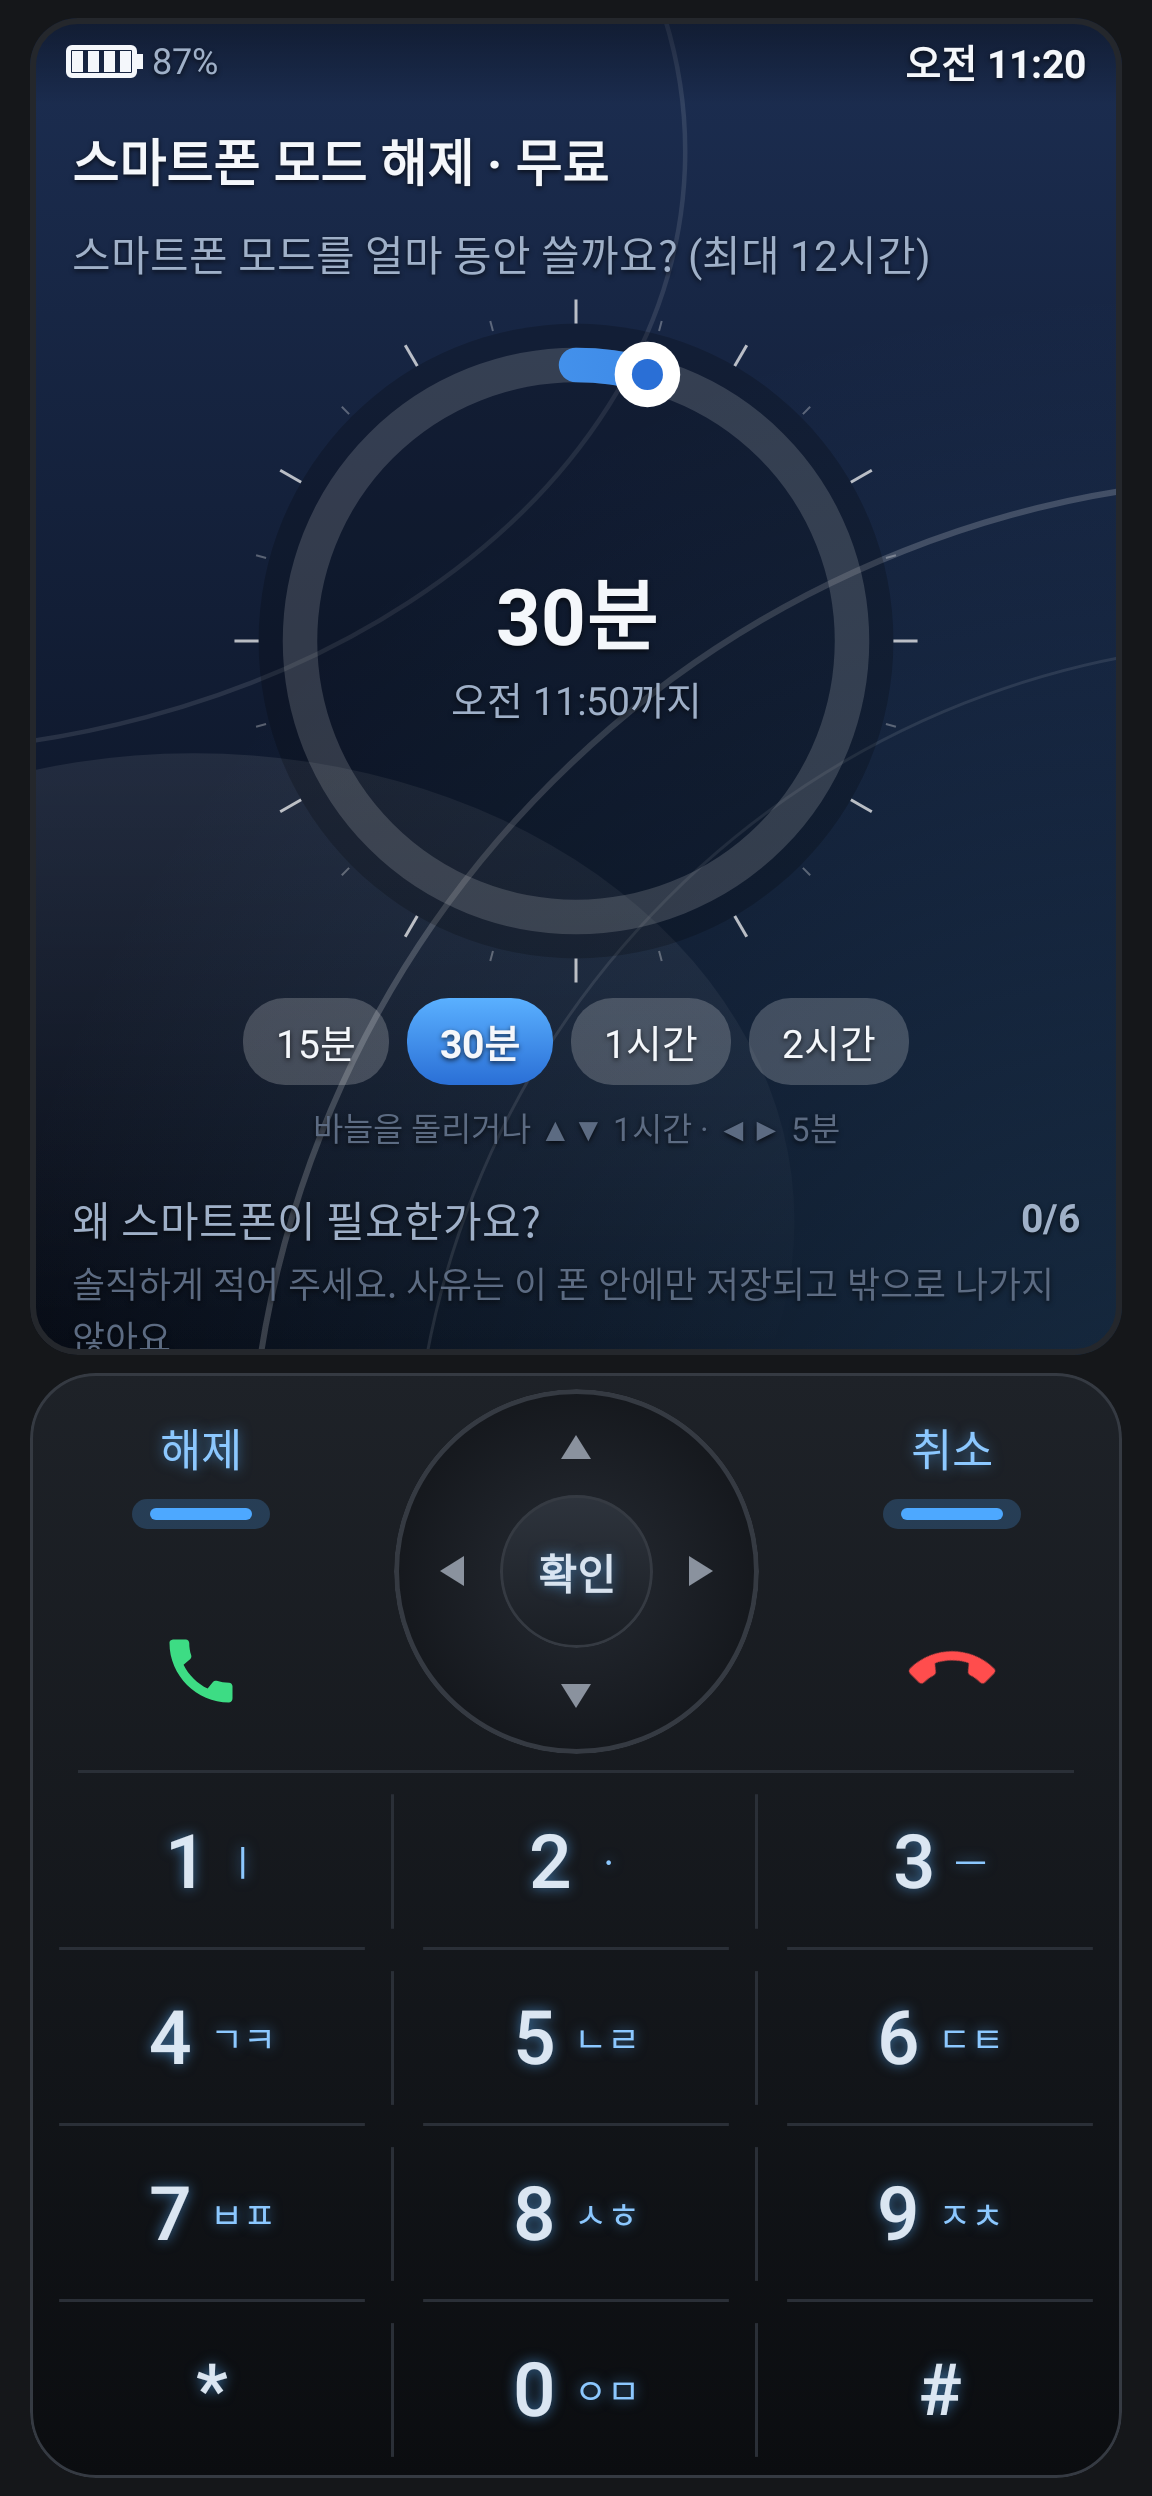
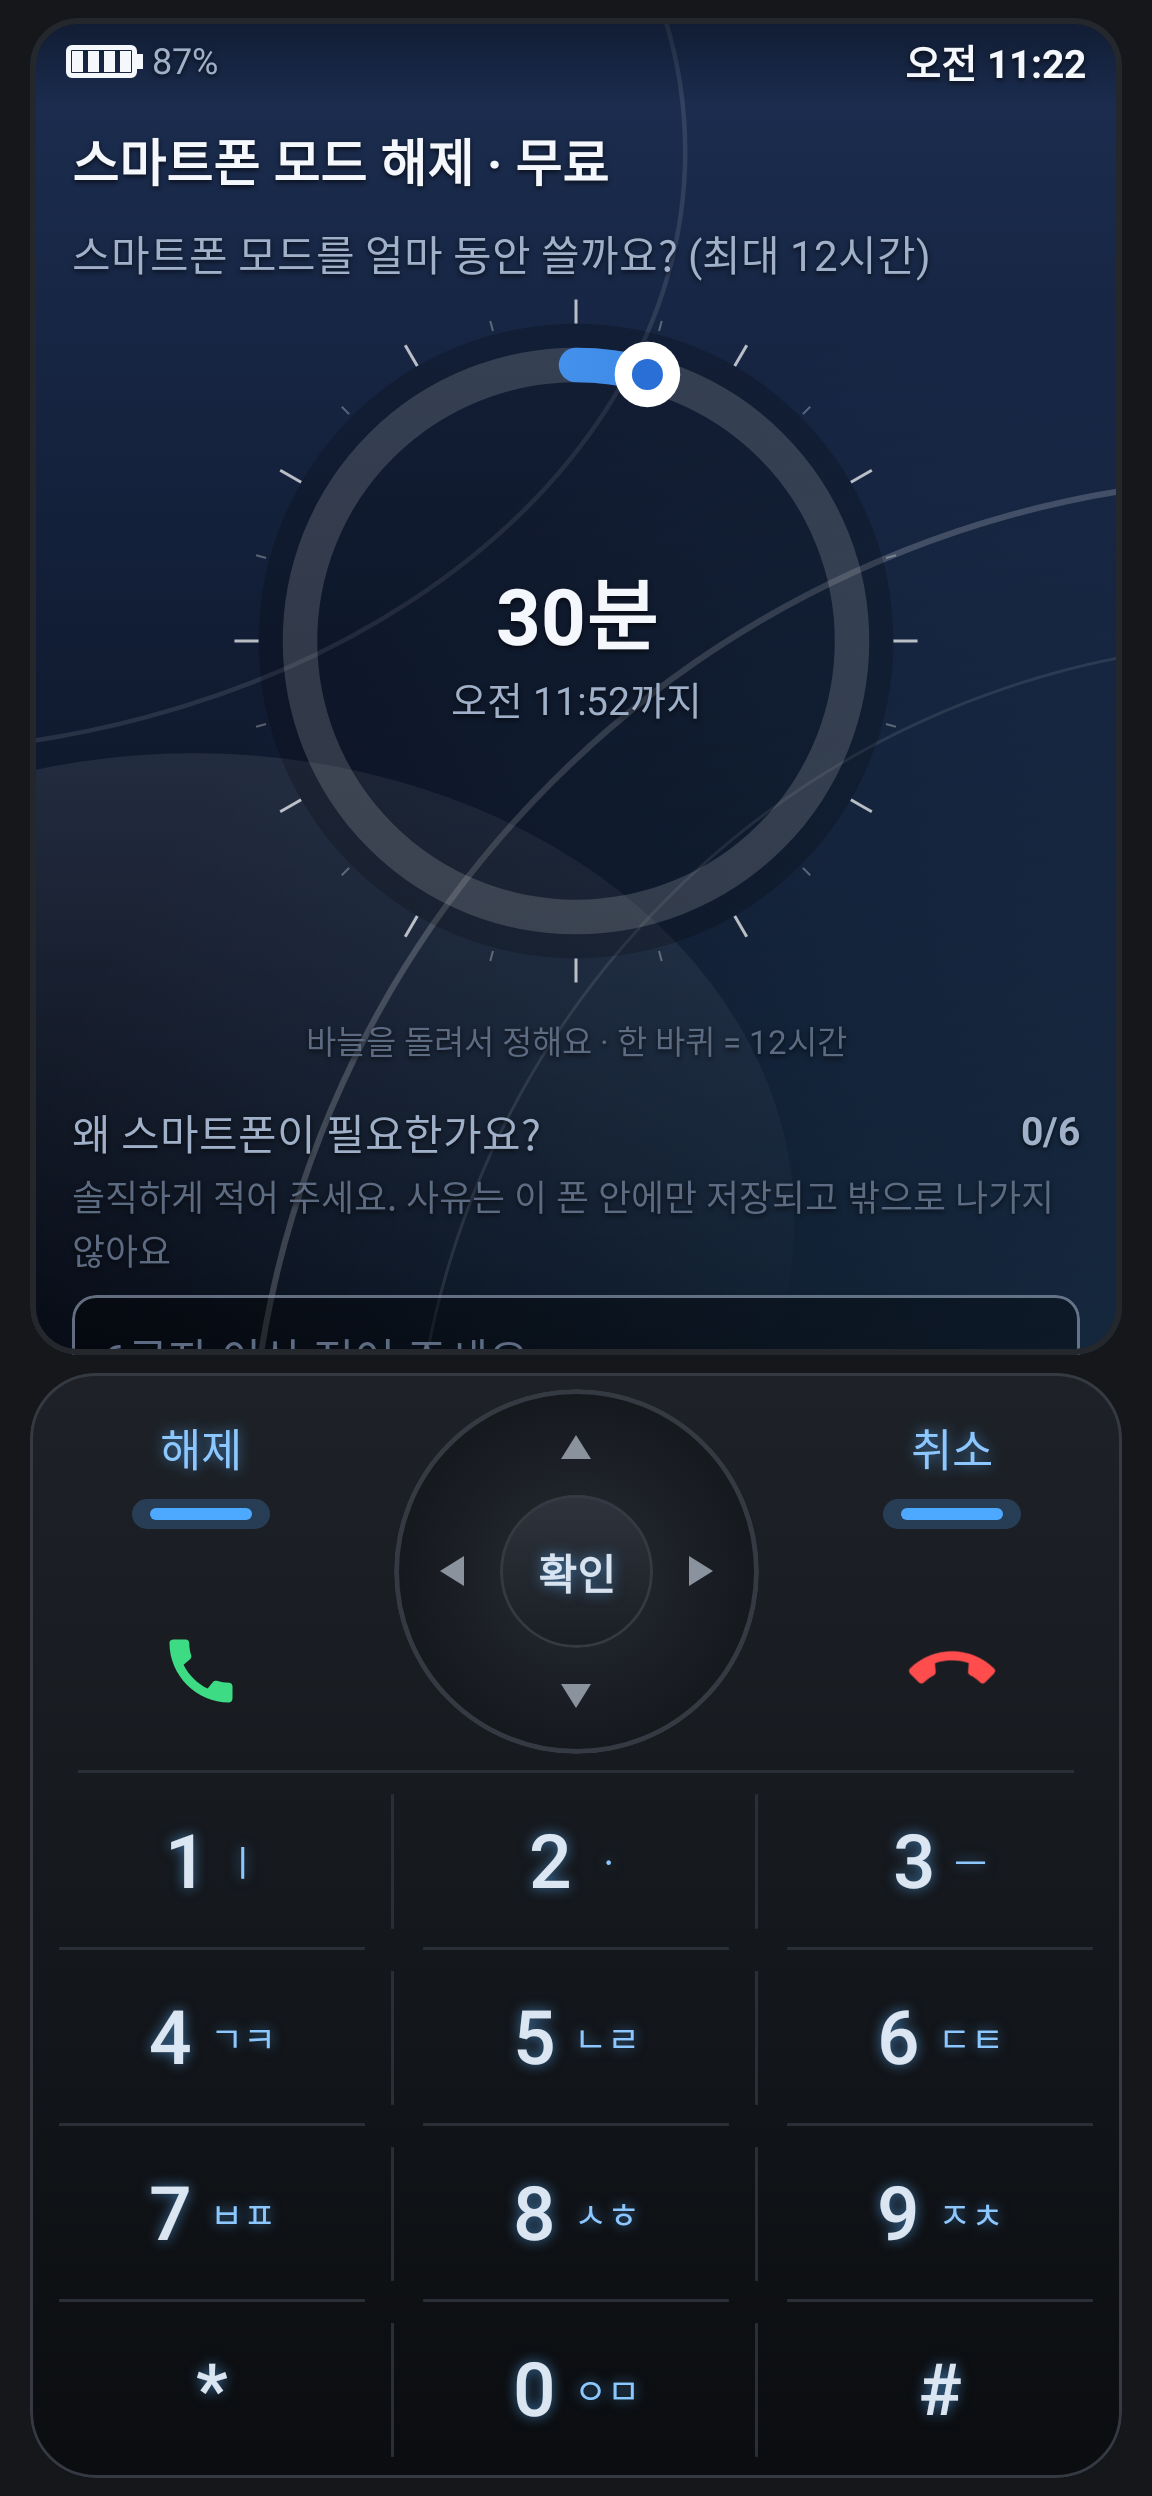
해제 시간 고르기: 빠른 선택 칩 빼고 시계형만
Claude-Session: https://claude.ai/code/session_01NTGzdmekjWKd9sVyjh3UtQ

Changed region(s): [[0.0625, 0.375, 0.8125, 0.5625], [0.8438, 0.4375, 0.9375, 0.5312]]

diff --git a/app/src/main/java/com/aggro1025/jeopda/ui/folder/FolderApp.kt b/app/src/main/java/com/aggro1025/jeopda/ui/folder/FolderApp.kt
@@ -456,16 +456,8 @@ private fun UnlockInputScreen(
             Box(Modifier.fillMaxWidth().padding(vertical = 4.dp), contentAlignment = Alignment.Center) {
                 DialPicker(minutes, onChange = { setMinutes(it) })
             }
-            Row(
-                Modifier.fillMaxWidth(),
-                horizontalArrangement = Arrangement.spacedBy(6.dp, Alignment.CenterHorizontally),
-            ) {
-                listOf(15 to "15분", 30 to "30분", 60 to "1시간", 120 to "2시간").forEach { (m, t) ->
-                    Chip(t, selected = minutes == m) { setMinutes(m) }
-                }
-            }
             Text(
-                "바늘을 돌리거나 ▲▼ 1시간 · ◀▶ 5분",
+                "바늘을 돌려서 정해요 · 한 바퀴 = 12시간",
                 style = scrText(11.sp, Scr.faint),
                 textAlign = TextAlign.Center,
                 modifier = Modifier.fillMaxWidth().padding(top = 6.dp),
